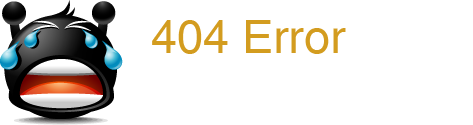
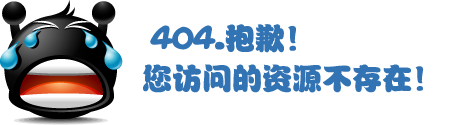
1

Changed region(s): [[0.296, 0.504, 0.9175, 0.744], [0.296, 0.144, 0.74, 0.432]]

diff --git a/G1mist.CMS/G1mist.CMS.UI.Potal/static/error.html b/G1mist.CMS/G1mist.CMS.UI.Potal/static/error.html
@@ -1,4 +1,4 @@
-<!DOCTYPE html PUBLIC "-//W3C//DTD XHTML 1.0 Transitional//EN" "http://www.w3.org/TR/xhtml1/DTD/xhtml1-transitional.dtd">
+<!DOCTYPE HTML PUBLIC "-//W3C//DTD XHTML 1.0 Transitional//EN" "http://www.w3.org/TR/xhtml1/DTD/xhtml1-transitional.dtd">
 <html xmlns="http://www.w3.org/1999/xhtml">
 <head>
     <meta http-equiv="Content-Type" content="text/html; charset=utf-8" />
@@ -11,7 +11,7 @@
             $(window).resize(function () {
                 $('.error').css({ 'position': 'absolute', 'left': ($(window).width() - 490) / 2 });
             });
-        });  
+        });
     </script>
 </head>
 <body style="background: #edf6fa;">
@@ -22,11 +22,10 @@
             <li><a href="#">404错误提示</a></li>
         </ul>
     </div>-->
-    <div class="error" style="margin-top: 200px;">
-        <h2>
-            非常遗憾，您访问的页面不存在！</h2>
-        <div class="reindex">
-            <a href="index.html" target="_parent">返回首页</a></div>
+    <div class="error">
+        <div class="reindex" style="margin-top: 100px;">
+            <a href="index.html" target="_parent">返回首页</a>
+        </div>
     </div>
 </body>
 </html>
